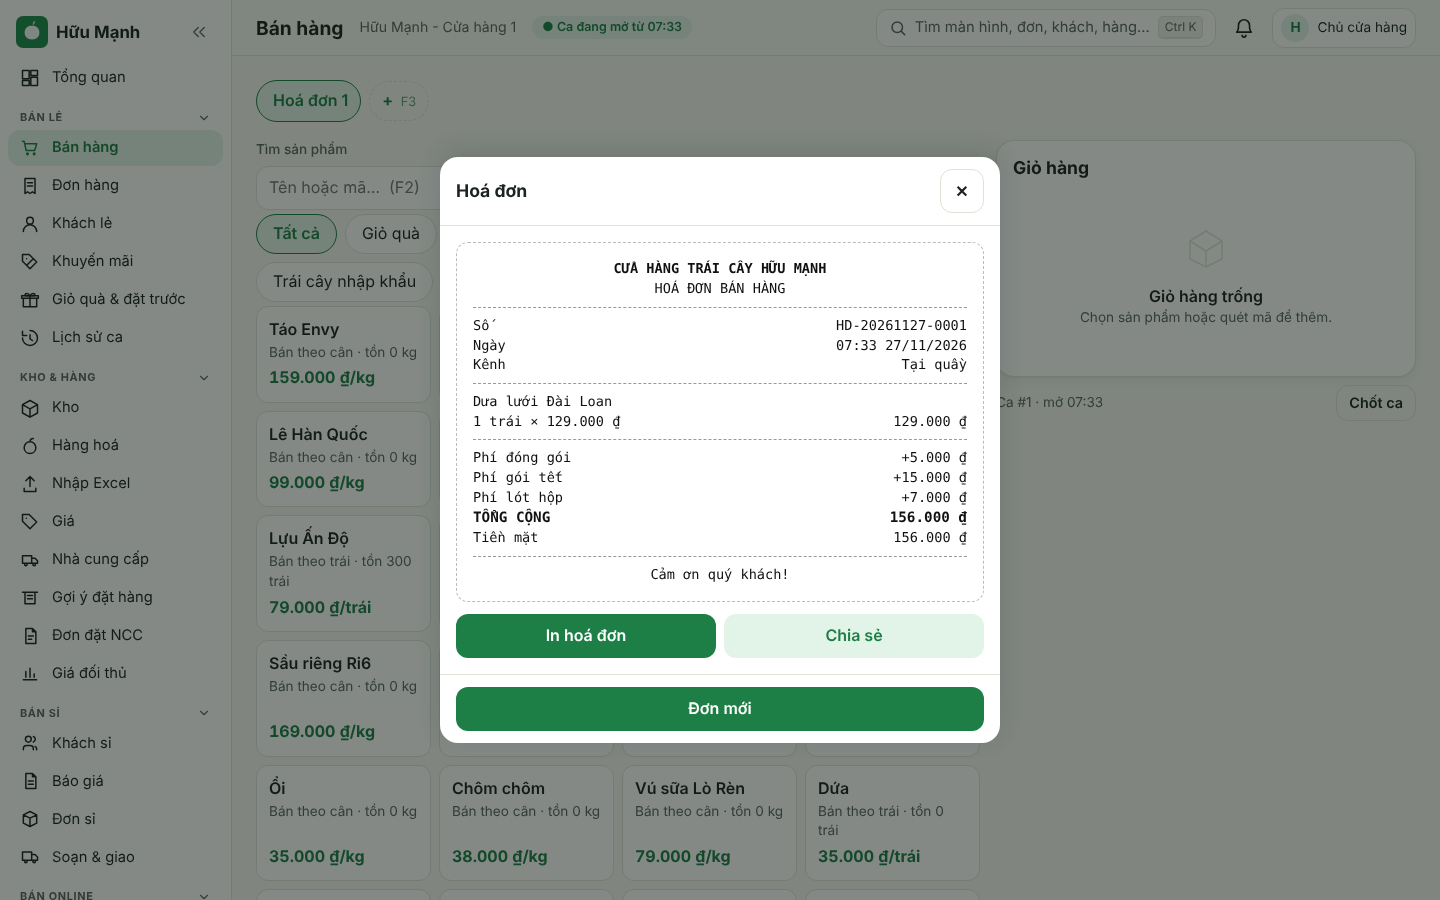
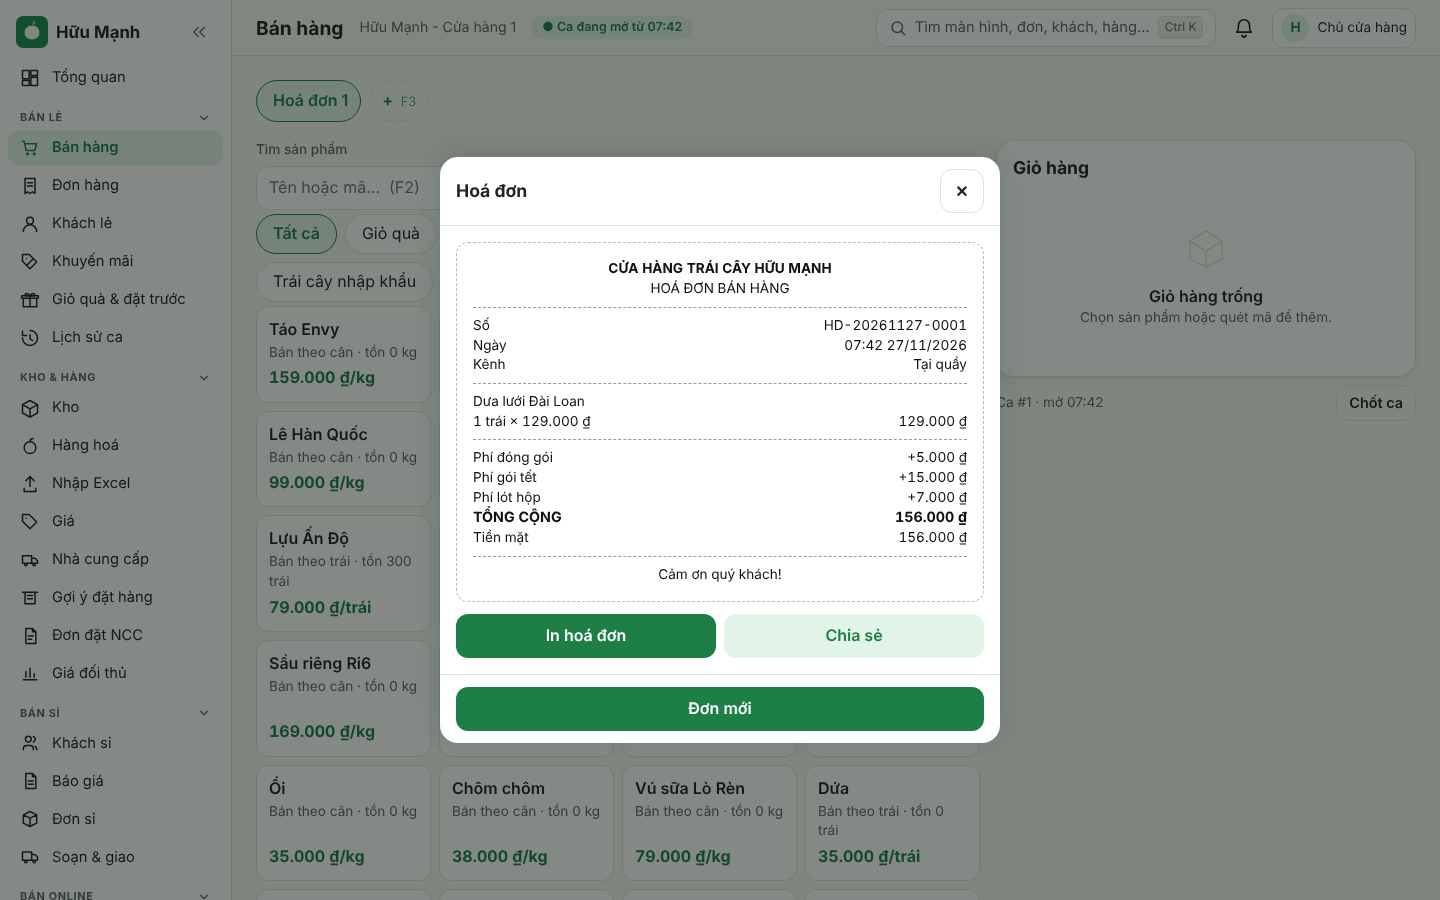
POS-KV B1: vượt hạn mức nợ → quản lý duyệt; phiếu in dùng font Be Vietnam Pro
- Vượt hạn mức (> 0) đi luồng duyệt order.credit (người duyệt cần pos.credit, kể cả chủ/quản lý đều phải có phiếu); đơn lập kèm
  phiếu đã duyệt thì assertStmt hạn mức cho vượt, phiếu dùng một lần (onceStmt + ref_id), đúng khách và đúng số tiền.
  Hạn mức 0 vẫn chặn 409 credit_limit_exceeded; hai quầy đồng thời không duyệt vẫn chỉ một đơn qua.
- Phiếu in: bỏ font monospace hệ thống (thiếu dấu tiếng Việt), dùng Be Vietnam Pro + tabular-nums.
- Cập nhật test/pos-credit.test.ts, docs/API.md, docs/POS-KV-B.md; chụp lại ảnh phiếu.

Claude-Session: https://claude.ai/code/session_01B1cfSLiaJCBmAvf46zapqc

diff --git a/src/worker/routes/pos.ts b/src/worker/routes/pos.ts
@@ -13,7 +13,7 @@ import { resolvePrice } from "../services/pricing";
 import { getSettingInt } from "../services/settings";
 import { salesSummary } from "../services/salesreport";
 import { groupIdsOf, planPromotions, promoStatements } from "../services/promo-checkout";
-import { assertStmt } from "../services/guard";
+import { assertStmt, onceStmt } from "../services/guard";
 import { assertPeriodOpen } from "../services/period";
 import { retireStaleDraft } from "../services/online-ops";
 import { sepayConfig } from "../services/sepay";
@@ -406,14 +406,17 @@ posRoutes.post("/pos/orders", requirePerm("pos.sell"), async (c) => {
   // B1: bán nợ khách lẻ
   const creditAmount = body.credit?.amount ?? 0;
   const creditCfg = await creditSettings(db);
+  let overLimit = false;
   if (body.credit) {
     if (soldAt) throw new AppError(422, "credit_offline_not_allowed", "Đơn lập khi offline không được ghi nợ (không kiểm được hạn mức)");
     if (!creditCfg.enabled) throw conflict("credit_disabled", "Chưa bật bán nợ khách lẻ (Cài đặt → Công nợ)");
     if (!customer || customer.type !== "retail" || !customer.phone) throw new AppError(422, "credit_needs_customer", "Ghi nợ cần gắn khách lẻ có số điện thoại");
     if (creditAmount + paid !== total) throw new AppError(422, "credit_mismatch", "Số ghi nợ phải bằng đúng tổng đơn trừ các khoản đã thu", { total, paid, credit: creditAmount });
     const outstanding = await openDebtOf(db, customer.id);
-    if (!(customer.credit_limit > 0) || outstanding + creditAmount > customer.credit_limit)
-      throw conflict("credit_limit_exceeded", customer.credit_limit > 0 ? "Vượt hạn mức nợ của khách" : "Khách chưa được đặt hạn mức nợ", { creditLimit: customer.credit_limit, outstanding, available: Math.max(0, customer.credit_limit - outstanding) });
+    // Hạn mức 0 = khách chưa được bán nợ (chặn cứng). Vượt hạn mức > 0 → cần approval order.credit đã duyệt (kiểm ở plan(), guard trong batch cho vượt khi có duyệt)
+    if (!(customer.credit_limit > 0))
+      throw conflict("credit_limit_exceeded", "Khách chưa được đặt hạn mức nợ", { creditLimit: 0, outstanding, available: 0 });
+    overLimit = outstanding + creditAmount > customer.credit_limit;
     await assertPeriodOpen(db, new Date(), "bán nợ");
   } else if (paid < total) throw new AppError(422, "payment_mismatch", "Tổng thanh toán chưa đủ tổng tiền đơn", { total, paid });
   const cashTotal = body.payments.filter((p) => p.method === "cash").reduce((s, p) => s + p.amount, 0);
@@ -473,8 +476,9 @@ posRoutes.post("/pos/orders", requirePerm("pos.sell"), async (c) => {
     overrideReasons = [];
     // B1: ghi nợ vượt ngưỡng approval.pos_credit_vnd mà người bán không có pos.credit → cần quản lý duyệt (cùng luồng duyệt POS)
     const needCreditApproval = creditAmount > creditCfg.approvalVnd && !can(user.role, "pos.credit") && !can(user.role, "approvals.decide");
-    const allReasons = needCreditApproval ? [...reasons, "credit"] : reasons;
-    if (allReasons.length && !can(user.role, "approvals.decide")) {
+    const allReasons = needCreditApproval || overLimit ? [...reasons, ...(overLimit ? ["credit_limit"] : ["credit"])] : reasons;
+    // vượt hạn mức luôn cần phiếu duyệt (kể cả quản lý/chủ — không tự bỏ qua)
+    if (allReasons.length && (overLimit || !can(user.role, "approvals.decide"))) {
       approvalUsed = await requireApproval(c, body.clientUuid, body.approvalId, allReasons, { total, discountValue: discValue, ...(creditAmount ? { creditAmount } : {}) }, await cartHash(body));
     } else if (reasons.length) {
       // A-29: người có quyền tự duyệt không cần phiếu, nhưng phải ghi lý do (audit)
@@ -527,8 +531,9 @@ posRoutes.post("/pos/orders", requirePerm("pos.sell"), async (c) => {
     const stmts: D1PreparedStatement[] = [];
     // B1: chốt chặn hạn mức đặt ĐẦU batch — hai quầy ghi nợ đồng thời chỉ một quầy qua (quầy kia 409)
     if (body.credit && customer) {
-      const g = creditLimitGuard(customer.id, creditAmount);
+      const g = creditLimitGuard(customer.id, creditAmount, overLimit && approvalUsed != null);
       stmts.push(assertStmt(db, "pos.credit_limit", g.sql, g.binds));
+      if (overLimit && approvalUsed) stmts.push(onceStmt(db, "pos.credit_limit_approval", approvalUsed)); // phiếu duyệt vượt hạn mức dùng một lần
     }
     items.forEach((_, i) => {
       for (const a of p.lineAllocs[i]) {
@@ -652,7 +657,7 @@ async function requireApproval(c: Ctx, clientUuid: string, approvalId: number | 
   }
   throw conflict(
     "approval_required",
-    reasons.includes("below_cost") ? "Giá bán thấp hơn giá vốn, cần quản lý duyệt" : reasons.includes("discount") ? "Giảm giá vượt ngưỡng, cần quản lý duyệt" : "Ghi nợ vượt ngưỡng cho phép, cần quản lý duyệt",
+    reasons.includes("below_cost") ? "Giá bán thấp hơn giá vốn, cần quản lý duyệt" : reasons.includes("discount") ? "Giảm giá vượt ngưỡng, cần quản lý duyệt" : reasons.includes("credit_limit") ? "Ghi nợ vượt hạn mức của khách, cần quản lý duyệt" : "Ghi nợ vượt ngưỡng cho phép, cần quản lý duyệt",
     { approvalId: id, reasons },
   );
 }

diff --git a/test/pos-credit.test.ts b/test/pos-credit.test.ts
@@ -69,7 +69,7 @@ describe("B1: bán nợ khách lẻ — điều kiện", () => {
     expect(r2.body.error.code).toBe("payment_mismatch");
   });
 
-  it("vượt hạn mức / hạn mức 0 → 409 credit_limit_exceeded, không trừ kho", async () => {
+  it("hạn mức 0 → 409 credit_limit_exceeded (chưa được bán nợ, không có đường duyệt); vượt hạn mức > 0 không duyệt → 409 approval_required; không trừ kho", async () => {
     const before = await lotQty(1);
     const zero = await retail({ limit: 0 });
     const a = await sell("cashier", { customerId: zero, payments: [{ method: "cash", amount: 50000 }], credit: { amount: 150000 } });
@@ -78,9 +78,34 @@ describe("B1: bán nợ khách lẻ — điều kiện", () => {
     const small = await retail({ limit: 100000 });
     const b = await sell("cashier", { customerId: small, payments: [{ method: "cash", amount: 50000 }], credit: { amount: 150000 } });
     expect(b.status).toBe(409);
-    expect(b.body.error.code).toBe("credit_limit_exceeded");
-    expect(b.body.error.details).toMatchObject({ creditLimit: 100000, outstanding: 0, available: 100000 });
+    expect(b.body.error.code).toBe("approval_required");
     expect(await lotQty(1)).toBe(before);
+  });
+
+  it("vượt hạn mức: quản lý duyệt (order.credit) → qua, dùng một lần, đúng khách + đúng số tiền; chủ cũng phải có phiếu duyệt", async () => {
+    const cu = await retail({ limit: 100000 });
+    const body = { clientUuid: uid(), customerId: cu, lines: [line(2)], payments: [{ method: "cash", amount: 50000 }], credit: { amount: 150000 } };
+    const r1 = await api("cashier", "POST", `${V}/pos/orders`, body);
+    expect(r1.body.error.code).toBe("approval_required");
+    const aid = r1.body.error.details.approvalId;
+    expect((await db().prepare(`SELECT type FROM approvals WHERE id = ?`).bind(aid).first<any>()).type).toBe("order.credit");
+    expect((await api("warehouse", "POST", `${V}/approvals/${aid}/decide`, { decision: "approved" })).status).toBe(403);
+    expect((await api("manager", "POST", `${V}/approvals/${aid}/decide`, { decision: "approved" })).status).toBe(200);
+    // sai số tiền / sai khách → không hợp lệ
+    const other = await retail({ limit: 100000 });
+    expect((await api("cashier", "POST", `${V}/pos/orders`, { ...body, clientUuid: uid(), credit: { amount: 160000 }, payments: [{ method: "cash", amount: 40000 }], approvalId: aid })).body.error.code).toBe("approval_invalid");
+    expect((await api("cashier", "POST", `${V}/pos/orders`, { ...body, clientUuid: uid(), customerId: other, approvalId: aid })).body.error.code).toBe("approval_invalid");
+    const ok = await api("cashier", "POST", `${V}/pos/orders`, { ...body, approvalId: aid });
+    expect(ok.status).toBe(201);
+    expect((await invoiceOf(ok.body.id)).total).toBe(150000);
+    // dùng lại phiếu duyệt → lỗi, không tạo thêm đơn
+    const again = await api("cashier", "POST", `${V}/pos/orders`, { ...body, clientUuid: uid(), approvalId: aid });
+    expect(again.status).toBe(409);
+    expect(again.body.error.code).toBe("approval_invalid");
+    expect((await db().prepare(`SELECT COUNT(*) n FROM invoices WHERE customer_id = ?`).bind(cu).first<any>()).n).toBe(1);
+    // chủ không tự bỏ qua: vượt hạn mức vẫn cần phiếu duyệt
+    const o = await api("owner", "POST", `${V}/pos/orders`, { ...body, clientUuid: uid(), customerId: other });
+    expect(o.body.error.code).toBe("approval_required");
   });
 
   it("đơn offline (có soldAt) không được ghi nợ", async () => {

diff --git a/src/web/screens/Pos.tsx b/src/web/screens/Pos.tsx
@@ -706,7 +706,8 @@ function CheckoutSheet({ total: localTotal, charges, payloadBase, customer, onCl
   const over = paid - need, remaining = need - paid;
   const change = over > 0 ? over : 0;
   const qrPending = sepayPos && pays.some((p) => p.amount > 0 && p.method === "qr" && !(p.qr && p.qr.status === "paid" && p.qr.amount === p.amount));
-  const creditOk = creditAmt === 0 || (creditAmt <= avail && over === 0 && !!customer);
+  const limit = debts.data?.customer?.creditLimit ?? 0;
+  const creditOk = creditAmt === 0 || (limit > 0 && over === 0 && !!customer); // vượt hạn mức → máy chủ trả approval_required, quản lý duyệt
   const valid = paid >= need && (over === 0 || cash >= over) && pays.every((p) => p.amount > 0 || (creditAmt > 0 && p.amount === 0)) && !qrPending && creditOk;
   const setAmt = (i: number, n: number) => setPays((ps) => ps.map((p, j) => (j === i ? { ...p, amount: n } : p)));
   const quickBase = Math.max(0, total - creditAmt);
@@ -795,8 +796,8 @@ function CheckoutSheet({ total: localTotal, charges, payloadBase, customer, onCl
               {credit > 0 && <button className="chip" onClick={() => setCredit(0)}>Bỏ ghi nợ</button>}
             </div>
             {debts.data.outstanding > 0 && <div className="small muted">Khách đang nợ {money(debts.data.outstanding)}.</div>}
-            {credit > 0 && avail <= 0 && <div className="err small" role="alert">Khách chưa được đặt hạn mức nợ hoặc đã hết hạn mức — nhờ quản lý đặt ở màn Khách lẻ.</div>}
-            {credit > avail && avail > 0 && <div className="err small" role="alert">Vượt hạn mức nợ (còn được nợ {money(avail)}).</div>}
+            {credit > 0 && limit <= 0 && <div className="err small" role="alert">Khách chưa được đặt hạn mức nợ — nhờ quản lý đặt ở màn Khách lẻ.</div>}
+            {credit > avail && limit > 0 && <div className="hint" role="alert">Vượt hạn mức nợ (còn được nợ {money(avail)}) — cần quản lý duyệt.</div>}
             {credit > (cc.data?.approvalVnd ?? Infinity) && !cc.data?.canOverride && <div className="hint">Ghi nợ trên {money(cc.data.approvalVnd)} cần quản lý duyệt.</div>}
           </div>
         )}

diff --git a/src/worker/services/pos-credit.ts b/src/worker/services/pos-credit.ts
@@ -31,9 +31,10 @@ export async function openDebtOf(db: D1Database, customerId: number): Promise<nu
 }
 
 /** Điều kiện (assertStmt, đặt ĐẦU batch): khách có hạn mức > 0 và nợ đang mở + phần ghi nợ ≤ hạn mức → hai quầy ghi nợ đồng thời chỉ một quầy qua. */
-export function creditLimitGuard(customerId: number, amount: number) {
+export function creditLimitGuard(customerId: number, amount: number, allowOver = false) {
+  // allowOver: đơn có phiếu duyệt vượt hạn mức (đã kiểm ở route) → chỉ cần khách còn hạn mức > 0
   return {
-    sql: `SELECT c.credit_limit > 0 AND ${OPEN_DEBT_SQL} + ? <= c.credit_limit FROM customers c WHERE c.id = ?`,
+    sql: allowOver ? `SELECT c.credit_limit > 0 AND ${OPEN_DEBT_SQL} + ? >= 0 FROM customers c WHERE c.id = ?` : `SELECT c.credit_limit > 0 AND ${OPEN_DEBT_SQL} + ? <= c.credit_limit FROM customers c WHERE c.id = ?`,
     binds: [customerId, amount, customerId] as unknown[],
   };
 }

diff --git a/src/worker/routes/pos-credit.ts b/src/worker/routes/pos-credit.ts
@@ -12,6 +12,7 @@ import { AppError, conflict, notFound } from "../lib/errors";
 import { auditStmt } from "../lib/audit";
 import { vnDate } from "../lib/time";
 import { INVOICE_OUTSTANDING_SQL } from "../services/debt";
+import { registerApprovalHandler } from "../services/approval-registry";
 import { createPayment } from "../services/debt-ledger";
 import { creditSettings } from "../services/pos-credit";
 import { assertStmt } from "../services/guard";
@@ -20,6 +21,9 @@ import { ensurePayCode, sepayConfig } from "../services/sepay";
 import { buildVietQr } from "../../shop/worker/lib/vietqr";
 
 export const posCreditRoutes = new Hono<AppBindings>();
+
+// Duyệt ghi nợ khách lẻ vượt ngưỡng / vượt hạn mức: người duyệt cần pos.credit (chủ, quản lý); thu ngân gửi lại đơn kèm approvalId
+registerApprovalHandler("order.credit", { perm: "pos.credit" });
 
 const idParam = (v: string) => {
   const n = Number(v);

diff --git a/src/worker/services/notify-approval.ts b/src/worker/services/notify-approval.ts
@@ -22,7 +22,7 @@ const APPROVAL_TYPES: Record<string, TypeInfo> = {
   "debt_adjustment.post": { label: "Xoá nợ / chiết khấu công nợ", group: "finance", perm: "debt.approve" },
   "order.below_cost": { label: "Bán dưới giá vốn", group: "sales", perm: "approvals.decide" },
   "order.discount": { label: "Giảm giá đơn hàng", group: "sales", perm: "approvals.decide" },
-  "order.credit": { label: "Ghi nợ khách lẻ vượt ngưỡng", group: "sales", perm: "approvals.decide" },
+  "order.credit": { label: "Ghi nợ khách lẻ vượt ngưỡng / hạn mức", group: "sales", perm: "pos.credit" },
   "order.return": { label: "Trả hàng tại quầy", group: "sales", perm: "approvals.decide" },
   "order.credit_override": { label: "Vượt hạn mức nợ", group: "sales", perm: "b2b.credit_override" },
   "customer.credit_change": { label: "Đổi hạn mức nợ khách", group: "sales", perm: "b2b.credit_override" },

diff --git a/src/web/styles/app.css b/src/web/styles/app.css
@@ -163,7 +163,7 @@ tr.bad td { background: var(--warn-soft); }
 .logo { width: 64px; height: 64px; border-radius: 16px; }
 
 /* receipt / label + print */
-.receipt { font-family: ui-monospace, Menlo, Consolas, monospace; font-size: .85rem; background: #fff; color: #111; padding: var(--s-4); border-radius: var(--r-md); border: 1px dashed #bbb; }
+.receipt { font-family: inherit; font-variant-numeric: tabular-nums; /* Be Vietnam Pro: font monospace hệ thống thiếu dấu tiếng Việt */ font-size: .85rem; background: #fff; color: #111; padding: var(--s-4); border-radius: var(--r-md); border: 1px dashed #bbb; }
 .receipt .l { display: flex; justify-content: space-between; gap: 8px; }
 .receipt hr { border: 0; border-top: 1px dashed #999; margin: 8px 0; }
 .label-card { background: #fff; color: #111; border: 1px solid #ccc; border-radius: var(--r-md); padding: var(--s-4); text-align: center; }

diff --git a/docs/API.md b/docs/API.md
@@ -180,7 +180,7 @@ Migration `0038_pos_credit.sql` (tham số), `0039_order_charges.sql` (`charge_t
 
 ### `POST /pos/orders` — thêm trường
 - `charges?: [{ chargeTypeId?, name?, amount }]` (≤ 10). Loại có sẵn: phải còn hoạt động; số tiền khác mặc định (khi mặc định > 0) hoặc nhập tay (không `chargeTypeId`, cần `name`) cần quyền `pos.other_charge` (403 nếu thiếu). Tổng đơn = hàng − giảm giá − khuyến mãi/voucher/điểm + Σ charges; **thu khác không bị giảm giá, không tích điểm**. 422 `charge_type_not_found`, `charge_name_required`.
-- `credit?: { amount }` — phần ghi nợ; phải bằng đúng `total − Σ payments` (`payments` có thể rỗng). Lỗi: 409 `credit_disabled` (đang tắt), 422 `credit_needs_customer` (không có khách lẻ có SĐT), 422 `credit_mismatch`, 422 `credit_offline_not_allowed` (đơn offline có `soldAt`), 409 `credit_limit_exceeded` (`details:{creditLimit, outstanding, available}`; khách hạn mức 0 cũng vậy), 423 `period_locked`. Hai quầy ghi nợ đồng thời: `assertStmt` hạn mức đặt đầu batch → chỉ một đơn qua, đơn kia 409 `credit_limit_exceeded`. Ghi nợ > `approval.pos_credit_vnd` mà người bán không có `pos.credit`/`approvals.decide` → 409 `approval_required` (approval `order.credit`, gắn băm giỏ + số ghi nợ + khách; duyệt xong gửi lại kèm `approvalId`).
+- `credit?: { amount }` — phần ghi nợ; phải bằng đúng `total − Σ payments` (`payments` có thể rỗng). Lỗi: 409 `credit_disabled` (đang tắt), 422 `credit_needs_customer` (không có khách lẻ có SĐT), 422 `credit_mismatch`, 422 `credit_offline_not_allowed` (đơn offline có `soldAt`), 409 `credit_limit_exceeded` (`details:{creditLimit, outstanding, available}`) khi khách có hạn mức 0 (chưa được bán nợ — quản lý phải đặt hạn mức trước, không có đường duyệt), 423 `period_locked`. **Vượt hạn mức (> 0)** (nợ đang mở + ghi nợ > `credit_limit`) → 409 `approval_required` (approval `order.credit`, kể cả quản lý/chủ; người duyệt cần `pos.credit`, chủ duyệt được chính mình, người khác không tự duyệt); duyệt xong gửi lại kèm `approvalId` thì `assertStmt` cho vượt, phiếu duyệt gắn băm giỏ + số ghi nợ + khách, dùng một lần (`onceStmt` + `ref_id`; dùng lại → 409 `approval_invalid`). Hai quầy ghi nợ đồng thời không có duyệt: `assertStmt` hạn mức đặt đầu batch → chỉ một đơn qua, đơn kia 409 `credit_limit_exceeded`. Ghi nợ > `approval.pos_credit_vnd` mà người bán không có `pos.credit`/`approvals.decide` → 409 `approval_required` (cùng approval `order.credit`).
 - Ghi một batch: đơn hoàn tất như thường (kho FEFO), `payments` (phần đã thu) + 1 dòng `payments(method='credit', amount=ghi nợ, fund_id NULL)`, hoá đơn phải thu `invoices(kind='sale', order_id, customer_id, total=ghi nợ, issue_date=ngày bán VN, due_date=ngày bán+kỳ hạn, einvoice_status='not_required')`. `orders.paid_total` = tiền thực thu (không gồm nợ), `orders.charges_total` = Σ thu khác.
 - Phản hồi đơn (`POST /pos/orders`, `GET /orders/:id`, `GET /pos/receipt/:id`) có thêm `charges:[{id,charge_type_id,name,amount,refunded_amount}]` (receipt: `[{name,amount}]`) và `credit: null | { invoiceId, invoiceCode, amount, outstanding, issueDate, dueDate, payCode, qrPayload }` — `payCode`/`qrPayload` (VietQR số tiền = còn nợ, nội dung = mã `HDS…`) chỉ có khi đã bật SePay (`sepay.enabled`, `sepay.flow_b2b`) và có tài khoản nhận tiền.
 

diff --git a/docs/POS-KV-B.md b/docs/POS-KV-B.md
@@ -17,7 +17,7 @@ Quy ước như `CLAUDE.md`: một `db.batch` + `auditStmt`; `assertStmt` cho ki
 1. Thu ngân gắn khách lẻ (bắt buộc có SĐT) → thanh toán. Ô **Ghi nợ** = phần còn thiếu (tổng − các khoản đã thu).
 2. Máy chủ kiểm tra trong **cùng batch** lập đơn:
    - `pos.retail_credit_enabled = 1` (mặc định **tắt**).
-   - Khách có `credit_limit > 0`; nợ đang mở + phần ghi nợ ≤ `credit_limit` → `assertStmt` (chống hai quầy cùng ghi nợ vượt hạn mức).
+   - Khách có `credit_limit > 0` (hạn mức 0 = chưa được bán nợ, chặn 409 `credit_limit_exceeded`); nợ đang mở + phần ghi nợ ≤ `credit_limit` → `assertStmt` (chống hai quầy cùng ghi nợ vượt hạn mức). **Vượt hạn mức → quản lý duyệt** (approval `order.credit`, người duyệt cần `pos.credit`, dùng một lần, đúng khách + đúng số tiền); đơn lập kèm phiếu đã duyệt thì guard cho vượt, không có phiếu vẫn 409.
    - Phần ghi nợ > `approval.pos_credit_vnd` hoặc thu ngân không có quyền `pos.credit` → cần quản lý duyệt tại chỗ (dùng luồng phê duyệt POS hiện có như giảm giá vượt ngưỡng).
 3. Đơn hoàn tất như thường (doanh thu ghi ngày bán, trừ kho FEFO). Cùng batch sinh **hoá đơn phải thu** `invoices(kind='sale', customer_id, order_id, total = phần ghi nợ, due_date = ngày bán + customers.payment_terms_days, einvoice_status='not_required')`. Phần đã thu ngay vẫn là `payments` như cũ (tiền mặt vào két ca).
 4. Phiếu in có dòng **Còn nợ** và **mã QR thu nợ** (mã `HDS…` của hoá đơn, số tiền = còn nợ) để khách quét trả sau; SePay tự gạch nợ (luồng sẵn có).
